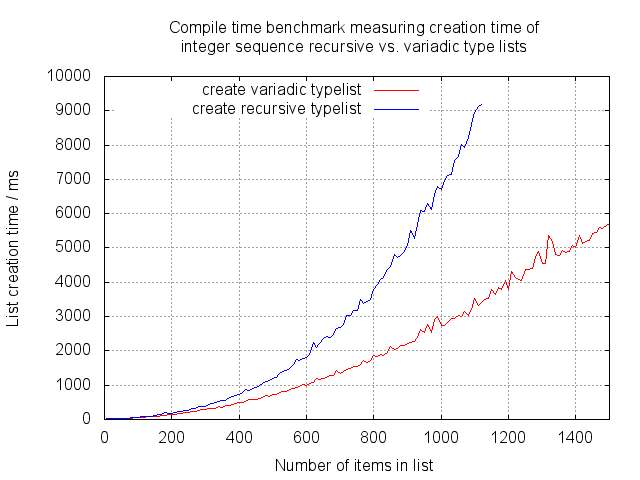
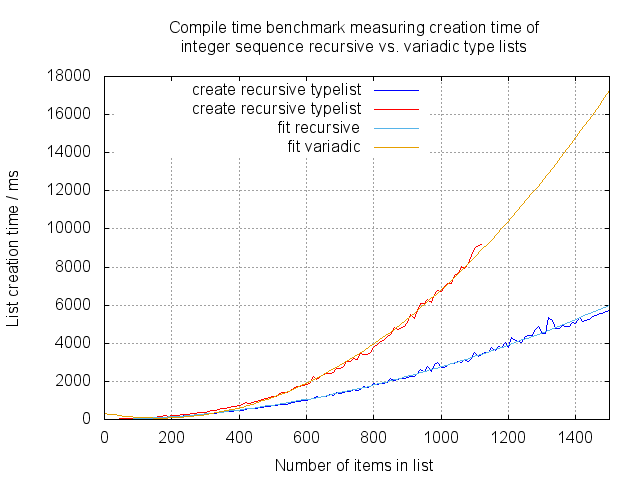
Apply some curve fitting to the graphs of the list creation benchmark

diff --git a/_posts/2016-05-08-compile_time_type_lists.md b/_posts/2016-05-08-compile_time_type_lists.md
@@ -69,7 +69,13 @@ Using [metashell](http://metashell.org/)'s `evaluate -profile` command, i measur
 
 ![Compile time benchmark measuring creation time of integer sequence recursive vs. variadic type lists]({{ site.url }}/assets/compile_time_type_list_creation_benchmark.png)
 
+| Graph | Fitted function |
+|:-----:|-----------------|
+| nested type list |  $$ 0.00247169 x^2 - 0.307925 x -20.0462 $$  |
+| variadic type list |  $$ 0.0096263 x^2 -3.15118  x + 330.614 $$  |
+
 Both variants seem to be within $$\mathcal{O}(n^2)$$, and variadic type lists prove to be significantly faster.
+
 
 ### Readability
 
